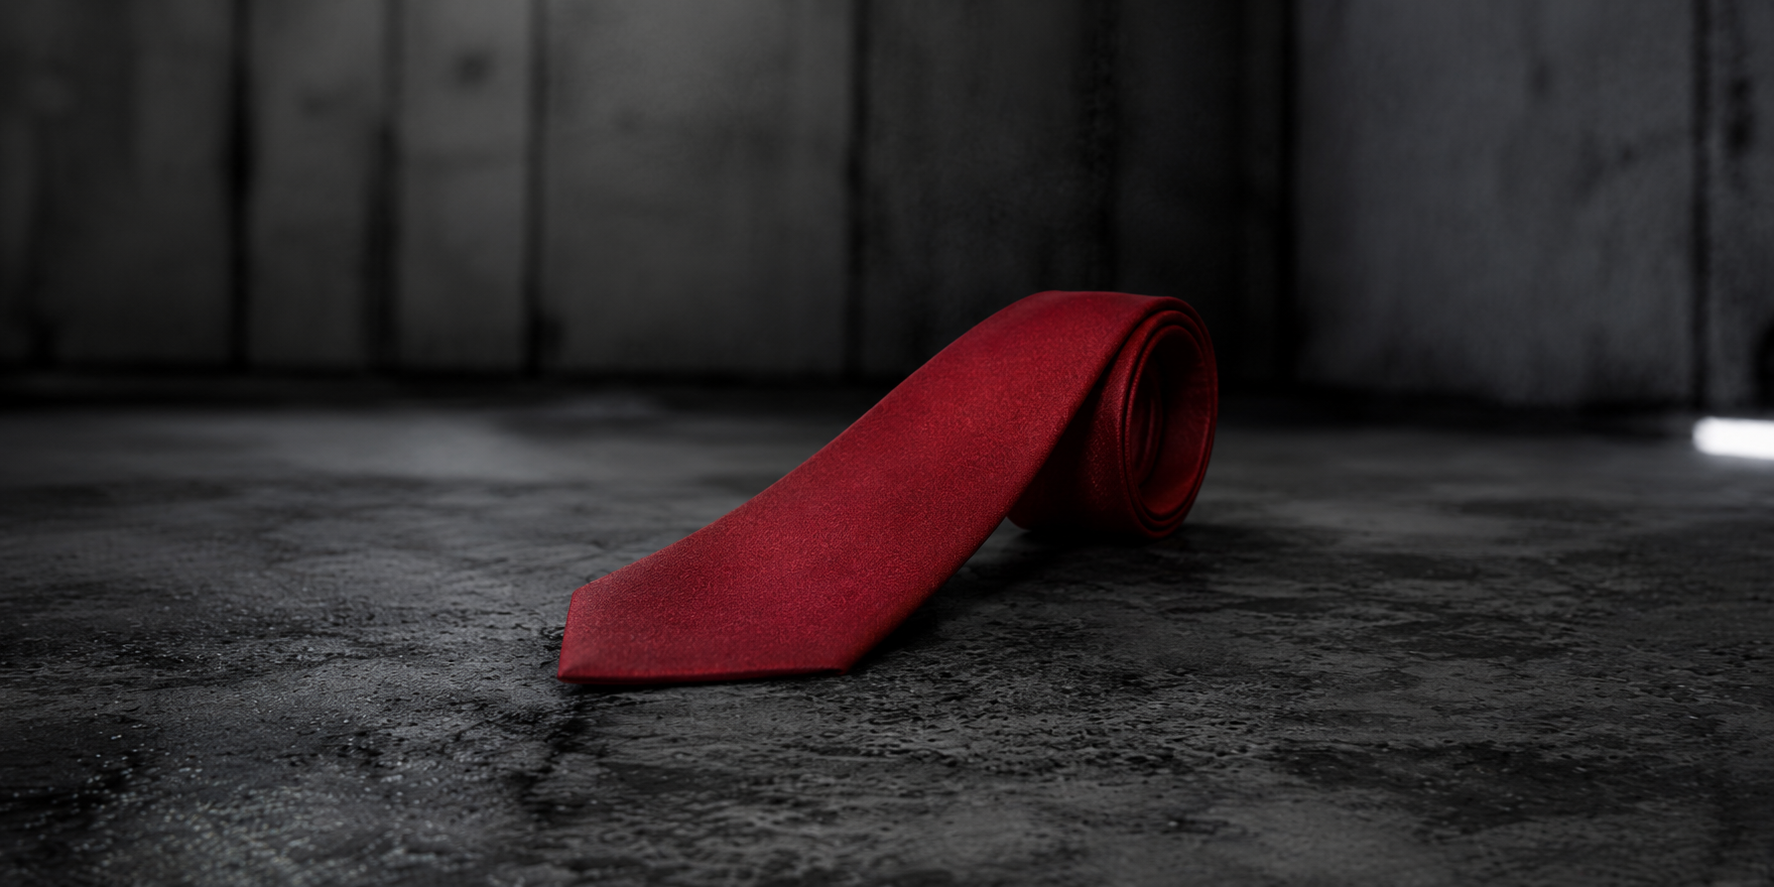
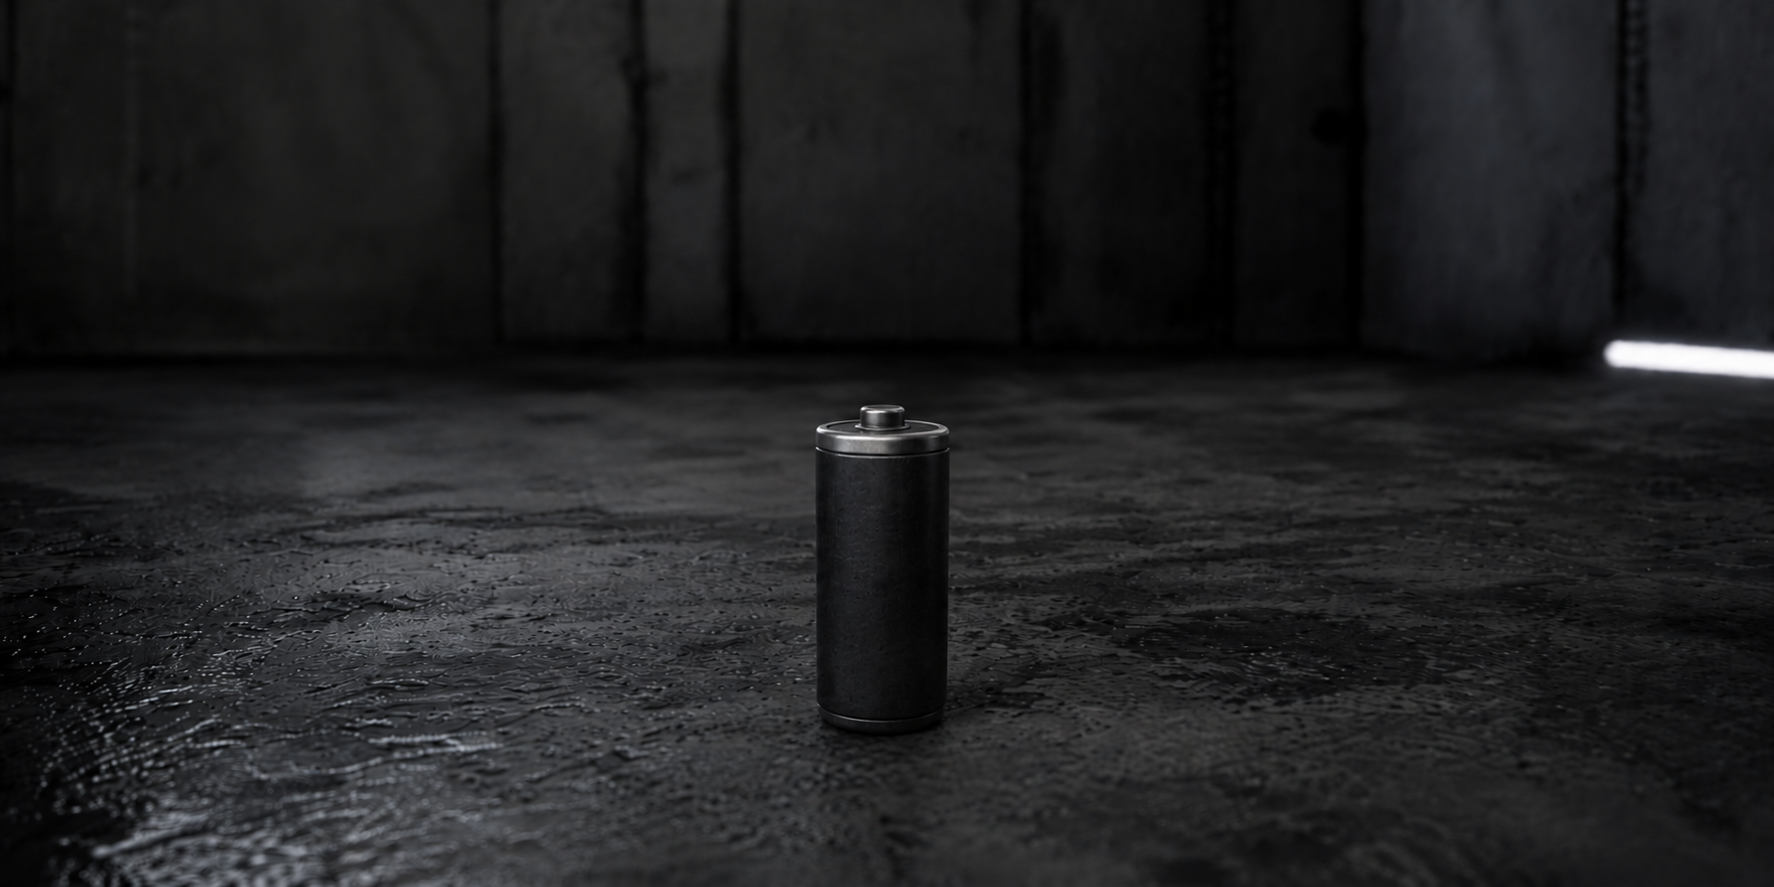
refactor: item's positions

diff --git a/js/locales/data-ru.js b/js/locales/data-ru.js
@@ -240,47 +240,47 @@ const guideDataRu = [
             },
             {
                 id: "sub3-7",
-                title: "Фонарик",
-                content: `
-                    <img src="./img/section3/sub3-7.png" alt="Фонарик" class="content-image">
-                    <p>Фонариком можно подсвечивать темные места уровней. Свет этого фонарика может навредить некоторым сущностям.</p>
-                    <p>Может непрерывно светить на протяжении 3 минут, нужно периодически заряжать батарейками.</p>
-                `
-            },
-            {
-                id: "sub3-8",
-                title: "Батарейка",
-                content: `
-                    <img src="./img/section3/sub3-8.png" alt="Батарейка" class="content-image">
-                    <p>Дает +50% к заряду предмета. Может быть использована для разных электроприборов на уровне или фонарика.</p>
-                `
-            },
-            {
-                id: "sub3-10",
-                title: "Красный галстук",
-                content: `
-                    <img src="./img/section3/sub3-10.png" alt="Красный галстук" class="content-image">
-                    <p>Пока находится в инвентаре, сущность Карьерист не может навредить.</p>
-                    <p>Можно получить, если убить сущность Карьерист с красным галстуком.</p>
-                `
-            },
-            {
-                id: "sub3-12",
                 title: "Штурмовая винтовка",
                 content: `
-                    <img src="./img/section3/sub3-12.png" alt="Штурмовая винтовка" class="content-image">
+                    <img src="./img/section3/sub3-7.png" alt="Штурмовая винтовка" class="content-image">
                     <p>Старая русская надежная штурмовая винтовка калибра 7.62мм. Имеет режим автоматического огня, отлично подходит для стрельбы на средние и дальние дистанции.</p>
                     <p>В инвентаре можно хранить не более 1 такой штурмовой винтовки. Можно подготовить не более 150 патронов для стрельбы за раз.</p>
                     <p>Калибр: 7.62мм.<br>Емкость магазина: 30 патронов.<br>Скорость стрельбы: 850 выстрелов в минуту.<br>Время перезарядки: 2.75 секунд.<br>Точность стрельбы: 8.5/10.<br>Отдача: средняя.</p>
                 `
             },
             {
-                id: "sub3-13",
+                id: "sub3-8",
                 title: "Коробка с патронами 7.62мм",
                 content: `
-                    <img src="./img/section3/sub3-13.png" alt="Коробка с патронами 7.62мм" class="content-image">
+                    <img src="./img/section3/sub3-8.png" alt="Коробка с патронами 7.62мм" class="content-image">
                     <p>Коробка с патронами может содержать 60, 90 или 120 патронов калибра 7.62мм.</p>
                     <p>Характеристики пули 7.62мм:<br>Скорость: 300 м/с.<br>Урон: 9.5 единиц.<br>Время полета: 5 секунды.</p>
+                `
+            },
+            {
+                id: "sub3-9",
+                title: "Фонарик",
+                content: `
+                    <img src="./img/section3/sub3-9.png" alt="Фонарик" class="content-image">
+                    <p>Фонариком можно подсвечивать темные места уровней. Свет этого фонарика может навредить некоторым сущностям.</p>
+                    <p>Может непрерывно светить на протяжении 3 минут, нужно периодически заряжать батарейками.</p>
+                `
+            },
+            {
+                id: "sub3-10",
+                title: "Батарейка",
+                content: `
+                    <img src="./img/section3/sub3-10.png" alt="Батарейка" class="content-image">
+                    <p>Дает +50% к заряду предмета. Может быть использована для разных электроприборов на уровне или фонарика.</p>
+                `
+            },
+            {
+                id: "sub3-11",
+                title: "Красный галстук",
+                content: `
+                    <img src="./img/section3/sub3-11.png" alt="Красный галстук" class="content-image">
+                    <p>Пока находится в инвентаре, сущность Карьерист не может навредить.</p>
+                    <p>Можно получить, если убить сущность Карьерист с красным галстуком.</p>
                 `
             }
         ]

diff --git a/js/locales/data-en.js b/js/locales/data-en.js
@@ -240,47 +240,47 @@ const guideDataEn = [
             },
             {
                 id: "sub3-7",
-                title: "Flashlight",
-                content: `
-                    <img src="./img/section3/sub3-7.png" alt="Flashlight" class="content-image">
-                    <p>The flashlight can illuminate dark areas of levels. Its light can harm certain entities.</p>
-                    <p>It can shine continuously for 3 minutes and needs to be recharged with batteries periodically.</p>
-                `
-            },
-            {
-                id: "sub3-8",
-                title: "Battery",
-                content: `
-                    <img src="./img/section3/sub3-8.png" alt="Battery" class="content-image">
-                    <p>Gives +50% charge to an item. Can be used for various electrical devices on the level or the flashlight.</p>
-                `
-            },
-            {
-                id: "sub3-10",
-                title: "Red tie",
-                content: `
-                    <img src="./img/section3/sub3-10.png" alt="Red tie" class="content-image">
-                    <p>While in the inventory, the Careerist entity cannot harm.</p>
-                    <p>Obtained by killing a Careerist entity wearing a red tie.</p>
-                `
-            },
-            {
-                id: "sub3-12",
                 title: "Assault rifle",
                 content: `
-                    <img src="./img/section3/sub3-12.png" alt="Assault rifle" class="content-image">
+                    <img src="./img/section3/sub3-7.png" alt="Assault rifle" class="content-image">
                     <p>An old reliable Russian assault rifle chambered in 7.62mm. Has automatic fire mode and is excellent for medium to long range combat.</p>
                     <p>No more than 1 such assault rifle can be stored in the inventory. No more than 150 rounds to fire at a time can be prepared.</p>
                     <p>Caliber: 7.62mm.<br>Magazine capacity: 30 rounds.<br>Fire rate: 850 shots per minute.<br>Reload time: 2.75 seconds.<br>Shooting accuracy: 8.5/10.<br>Recoil: medium.</p>
                 `
             },
             {
-                id: "sub3-13",
+                id: "sub3-8",
                 title: "7.62 ammo box",
                 content: `
-                    <img src="./img/section3/sub3-13.png" alt="7.62 ammo box" class="content-image">
+                    <img src="./img/section3/sub3-8.png" alt="7.62 ammo box" class="content-image">
                     <p>An ammo box can contain 60, 90, or 120 rounds of 7.62mm caliber.</p>
                     <p>7.62mm bullet characteristics:<br>Speed: 300 m/s.<br>Damage: 9.5 units.<br>Flight time: 5 seconds.</p>
+                `
+            },
+            {
+                id: "sub3-9",
+                title: "Flashlight",
+                content: `
+                    <img src="./img/section3/sub3-9.png" alt="Flashlight" class="content-image">
+                    <p>The flashlight can illuminate dark areas of levels. Its light can harm certain entities.</p>
+                    <p>It can shine continuously for 3 minutes and needs to be recharged with batteries periodically.</p>
+                `
+            },
+            {
+                id: "sub3-10",
+                title: "Battery",
+                content: `
+                    <img src="./img/section3/sub3-10.png" alt="Battery" class="content-image">
+                    <p>Gives +50% charge to an item. Can be used for various electrical devices on the level or the flashlight.</p>
+                `
+            },
+            {
+                id: "sub3-11",
+                title: "Red tie",
+                content: `
+                    <img src="./img/section3/sub3-11.png" alt="Red tie" class="content-image">
+                    <p>While in the inventory, the Careerist entity cannot harm.</p>
+                    <p>Obtained by killing a Careerist entity wearing a red tie.</p>
                 `
             }
         ]
